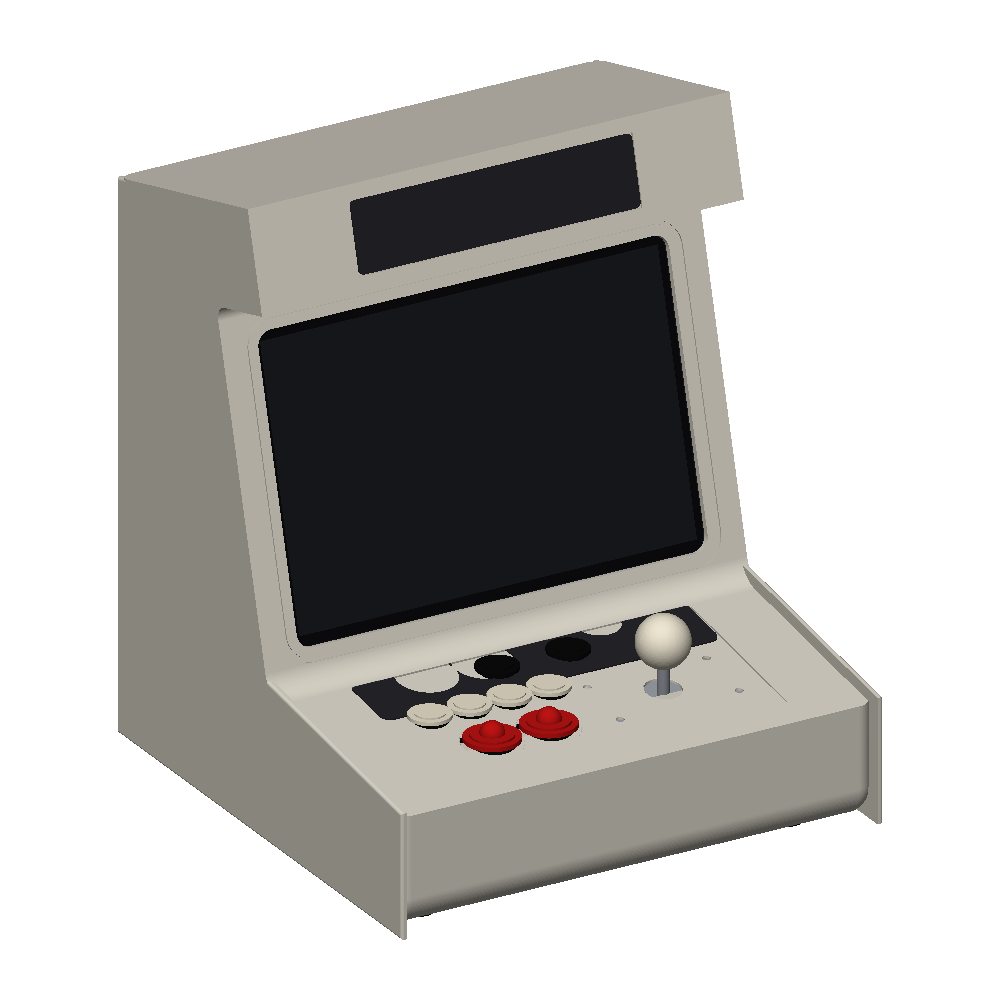
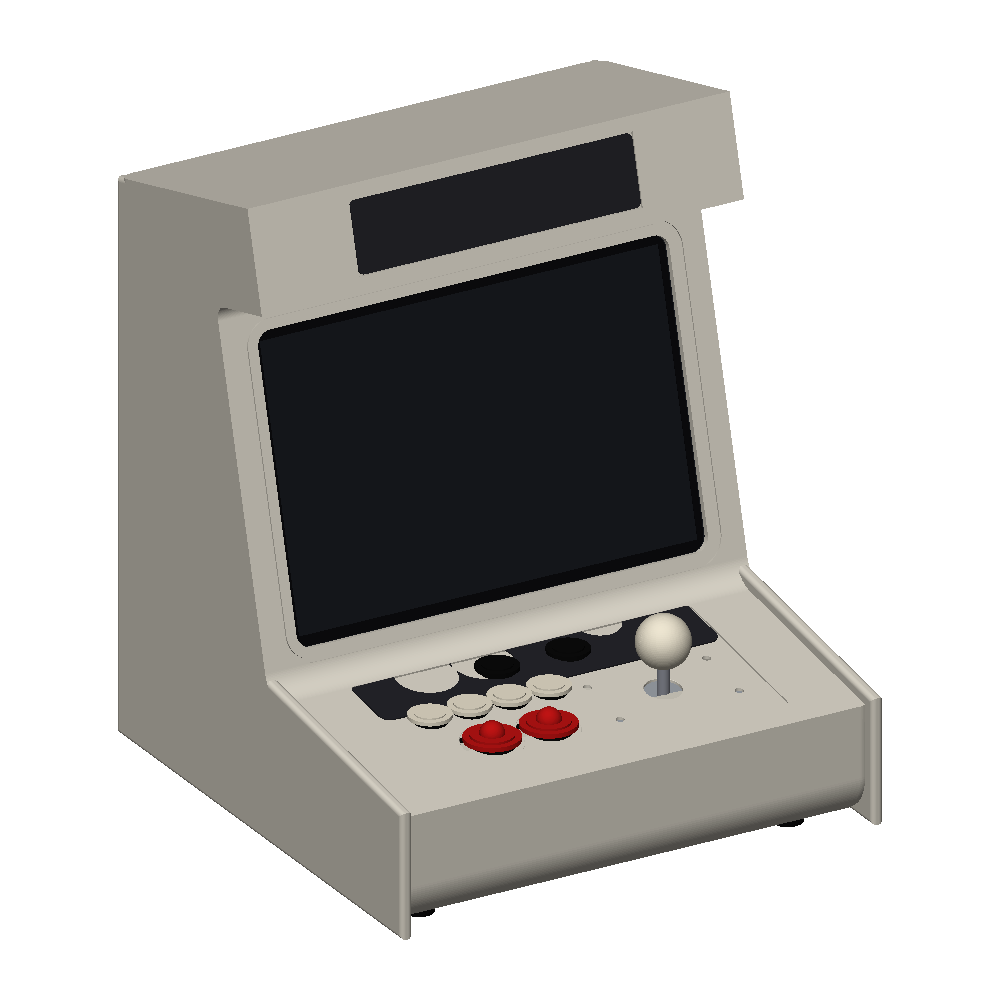
hardware: iteration 22 — softness pass on the side cheeks
- cheek_thickness 4 -> 8 mm so the 3D edge round can read (a 4 mm plate
  caps at ~R2); cheek_edge_fillet 3.2 mm on BOTH perimeter loops —
  outer edge and the inner edge framing the recessed front
- silhouette radii up: r_nose_bottom 22 -> 30, r_nose_top 18 -> 26
  (cheek radii auto-grow +8 via cheek_profile)
- flat-pack side plates intentionally stay 3 mm sheet — edge break is
  a fab-shop operation there, not geometry
- chain green: valid solid, 0.000 mm^3 seams, panels + deck guard OK,
  assembly 28 components

Changed region(s): [[0.403, 0.558, 0.899, 0.93]]

diff --git a/hardware/cabinet.py b/hardware/cabinet.py
@@ -45,9 +45,9 @@ PARAMS = {
     "lip_blend": 10.0,             # mm 3D fillet under the marquee lip
     "corner_fillet": 12.0,         # mm 3D fillet on vertical outer corners
     # --- side cheeks (side plates proud of the nose fascia) ---------------
-    "cheek_thickness": 4.0,        # mm; outer face flush with shell sides
+    "cheek_thickness": 8.0,        # mm; outer face flush with shell sides
     "cheek_front_overhang": 8.0,   # mm uniform buffer around the front matter
-    "cheek_edge_fillet": 2.0,      # mm 3D round on the outer plate perimeter
+    "cheek_edge_fillet": 3.2,      # mm 3D round on both plate perimeters
     "cheek_seam_blend": 8.0,       # mm 2D blend where cheek lip meets the face
     "hole_chamfer": 0.4,           # mm 45 deg break on deck control hole rims
     # --- control deck ---------------------------------------------------
@@ -81,8 +81,8 @@ PARAMS = {
     "chin_groove_depth": 1.0,
     "chin_groove_drop": 9.0,       # mm groove center below the face top
     # --- silhouette corner radii (2D profile) ----------------------------
-    "r_nose_bottom": 22.0,
-    "r_nose_top": 18.0,
+    "r_nose_bottom": 30.0,
+    "r_nose_top": 26.0,
     "r_back_bottom": 10.0,
     "r_back_top": 22.0,
     "r_marquee_top": 30.0,
@@ -354,12 +354,15 @@ def build_cabinet(p=None):
         cheek = Pos(sx * (p["cabinet_width"] / 2 - ct / 2), 0, 0) * extrude(
             csk.sketch, amount=ct / 2, both=True
         )
-        # machined-edge read: round the exposed outer perimeter of the plate
-        outer = cheek.edges().filter_by(
-            lambda e: abs(abs(e.center().X) - p["cabinet_width"] / 2) < 0.6
+        # machined-frame read: round BOTH plate perimeter loops — the outer
+        # face edge and the inner edge that frames the recessed front
+        half_w = p["cabinet_width"] / 2
+        perimeter = cheek.edges().filter_by(
+            lambda e: abs(abs(e.center().X) - half_w) < 0.6
+            or abs(abs(e.center().X) - (half_w - ct)) < 0.6
         )
         try:
-            cheek = cheek.fillet(p["cheek_edge_fillet"], outer)
+            cheek = cheek.fillet(p["cheek_edge_fillet"], perimeter)
         except Exception as exc:
             print(f"  ! cheek edge fillet skipped: {exc}")
         solid += cheek

diff --git a/hardware/design-notes.md b/hardware/design-notes.md
@@ -379,3 +379,18 @@ switch, PSU, inserts, feet) — then an assembled render with the enclosure.
   "hood screw holes" = nameplate magnet pockets (functional); Sonnet's
   heavy-base note deferred (structural volume); 8 mm cheek projection
   kept (uniform-buffer reading, user's call). Chain green, all guards OK.
+- Iteration 22 (2026-08-19, archived `iter-023`/`iter-024` / `asm-021`):
+  **softness pass** (user: "you have less rounding" vs the cream
+  reference). The reference's side frame reads THICK with a full
+  roundover; a 4 mm plate caps the 3D edge round at ~R2, so:
+  cheek_thickness 4 -> 8 mm (outer face still flush with the shell
+  sides), cheek_edge_fillet 2.8 -> 3.2 mm and now applied to BOTH
+  perimeter loops — the outer edge and the inner edge that frames the
+  recessed front (kills the hard 90 deg step where the cheek meets the
+  nose fascia / deck tray). Silhouette radii up: r_nose_bottom 22 -> 30,
+  r_nose_top 18 -> 26 (cheek radii auto-grow +8 via cheek_profile:
+  R38/R34). Volume 1738 -> 2521 cm^3 across the cheek iterations (print
+  path only). NOTE — path divergence: the flat-pack side plates stay
+  3 mm sheet (panel_thickness) with no 3D edge rounds; for sheet metal
+  that edge break is a fab-shop operation (deburr/roll), not geometry.
+  Chain green, all guards OK.
